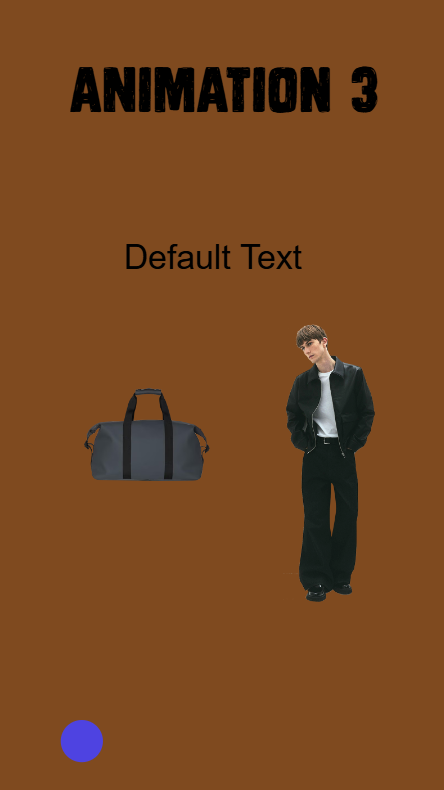
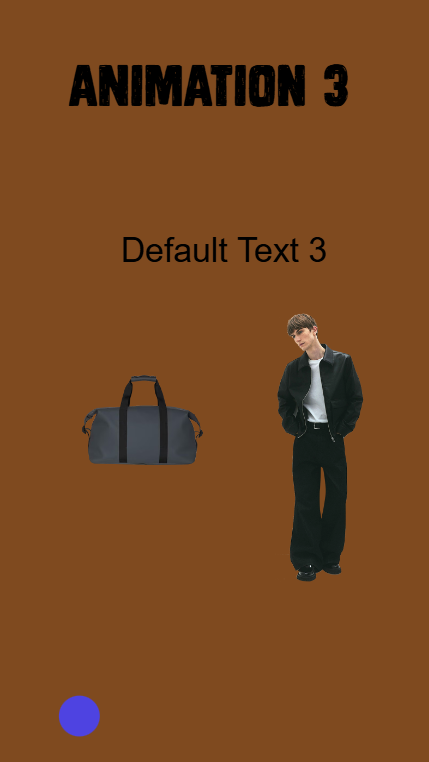
font with text loaded done

diff --git a/AnimationProject/wwwroot/js/action.js b/AnimationProject/wwwroot/js/action.js
@@ -618,6 +618,7 @@ async function loadCanvasFromJson(jsonData, condition = 'Common') {
         if (ty + finalHeight + padding > screenH) {
             ty = screenH - finalHeight - padding;
         }
+        
 
         return {
             text: obj.text,
@@ -660,9 +661,10 @@ async function loadCanvasFromJson(jsonData, condition = 'Common') {
     Promise.all(fontPromises).finally(() => {
         // Only auto-fit for those without manual breaks
         textObjects.forEach(obj => {
-            if (!obj._hasManualBreaks) {
-                autoFitText(obj, padding);
-            }
+            //if (!obj._hasManualBreaks) {
+            //    autoFitTextNew(obj, padding);
+            //}
+            autoFitTextNew(obj, padding);
         });
         console.log('drawCanvas calling after Promise');
         drawCanvas(condition);
@@ -671,7 +673,58 @@ async function loadCanvasFromJson(jsonData, condition = 'Common') {
 }
 
 
+function autoFitTextNew(obj, padding = 5) {
+    const ctx2 = canvas.getContext('2d');
+    const maxW = obj.boundingWidth - 2 * padding;
+    const maxH = obj.boundingHeight - 2 * padding;
 
+    // Your designer’s raw text, split on real newlines:
+    const rawLines = obj.text.replace(/\r/g, '').split('\n');
+
+    // Given font-size fs, wrap every rawLine to fit maxW, return the full array of wrapped lines:
+    function wrapAllLines(fs) {
+        ctx2.font = `${fs}px ${obj.fontFamily}`;
+        return rawLines.flatMap(line => wrapText(ctx2, line, maxW));
+    }
+
+    // Given fs, compute block dims for the wrapped lines at that size:
+    function measure(fs) {
+        const lines = wrapAllLines(fs);
+        const widths = lines.map(l => ctx2.measureText(l).width);
+        const blockW = Math.max(...widths, 0);
+        const lineH = fs * 1.2;
+        const blockH = lines.length * lineH;
+        return { blockW, blockH, lines };
+    }
+
+    // 1) start at designer fontSize
+    let fs = Math.floor(obj.fontSize);
+    let { blockW, blockH, lines } = measure(fs);
+
+    // 2) shrink while too big
+    while ((blockW > maxW || blockH > maxH) && fs > 1) {
+        fs--;
+        ({ blockW, blockH, lines } = measure(fs));
+    }
+
+    // 3) grow while it still fits
+    while (true) {
+        const next = measure(fs + 1);
+        if (next.blockW <= maxW && next.blockH <= maxH) {
+            fs++;
+            blockW = next.blockW;
+            blockH = next.blockH;
+            lines = next.lines;
+        } else {
+            break;
+        }
+    }
+
+    // 4) commit: final fs + its wrapped lines + new boundingHeight
+    obj.fontSize = fs;
+    obj._wrappedLines = lines;
+    obj.boundingHeight = lines.length * fs * 1.2 + 2 * padding;
+}
 
 
 

diff --git a/AnimationProject/wwwroot/css/style.css b/AnimationProject/wwwroot/css/style.css
@@ -537,13 +537,13 @@ ul.TextStyle li {list-style-type:none; float:left; width:100%; margin-bottom:10p
     ul.TextStyle li a.arial {
         font-family: 'Arial', sans-serif;
     }
-ul.TextStyle li a.anton{font-family: 'Anton'; font-weight: normal; font-style: normal; }
-ul.TextStyle li a.bebes{ font-family: 'Bebas Neue'; font-weight: normal; font-style: normal;}
+ul.TextStyle li a.anton{font-family: "Anton", sans-serif; font-weight: normal; font-style: normal; }
+ul.TextStyle li a.bebes{ font-family: "Bebas Neue", sans-serif; font-weight: normal; font-style: normal;}
 ul.TextStyle li a.monstro{ font-family: "Monstro"; font-style: normal;}
-ul.TextStyle li a.Montserrat{ font-family: 'Montserrat'; font-style: normal;} 
+ul.TextStyle li a.Montserrat{ font-family: "Montserrat", sans-serif; font-style: normal;} 
 ul.TextStyle li a.neto{ font-family: 'Noto Sans'; font-weight: normal; font-style: normal;}
-ul.TextStyle li a.pacifico{ font-family: 'Pacifico'; font-weight: normal; font-style: normal;}
-ul.TextStyle li a.Roboto{ font-family: 'Roboto'; font-weight: bold;}
+ul.TextStyle li a.pacifico{ font-family: "Pacifico", cursive; font-weight: normal; font-style: normal;}
+ul.TextStyle li a.Roboto{ font-family: "Roboto", sans-serif; font-weight: bold;}
 
 .middle-resulation {
     width: 100px;
